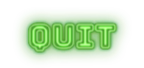
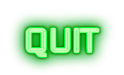
Working menu!

diff --git a/README.md b/README.md
@@ -13,6 +13,13 @@ If you're running Windows, the SDL library is bundled with the dome executable, 
 
 ## Attributions
 * [Menu background](https://opengameart.org/content/grid-background)
-* [Menu Text](https://maketext.io/)
+* [Menu Text](https://maketext.io/)[*]
 * [Cursor Arrow](https://opengameart.org/content/glow-arrow)
 * [Menu Music](https://opengameart.org/content/bluebeat-01-loop-cyberpunk-lab-music)
+
+[*] Steps to recreate this text:
+1. All caps
+2. Electrolize font
+3. Neon effect
+4. Stroke = 2.0
+5. Colour: #00aa1f
